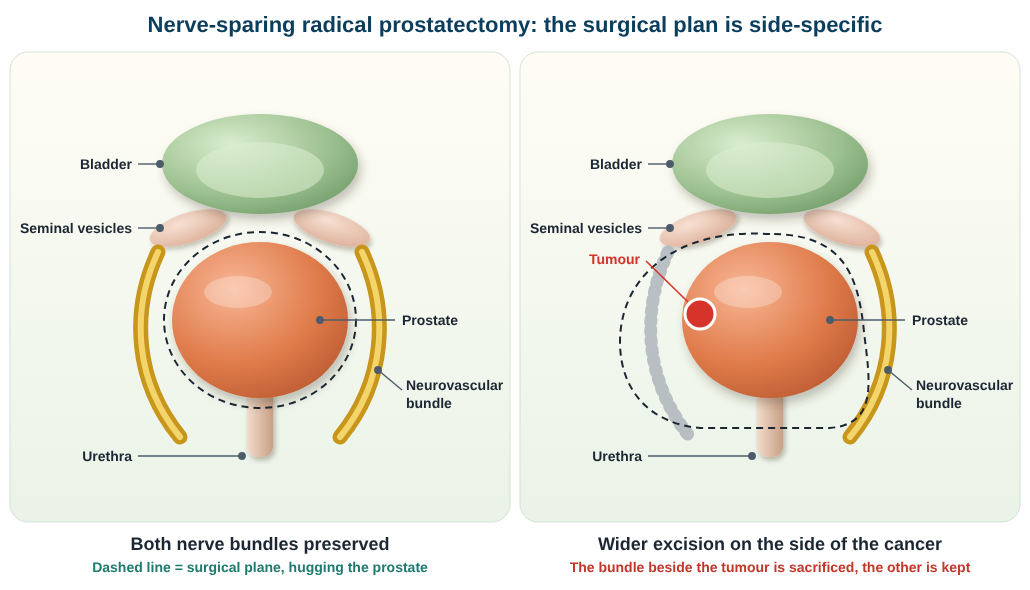
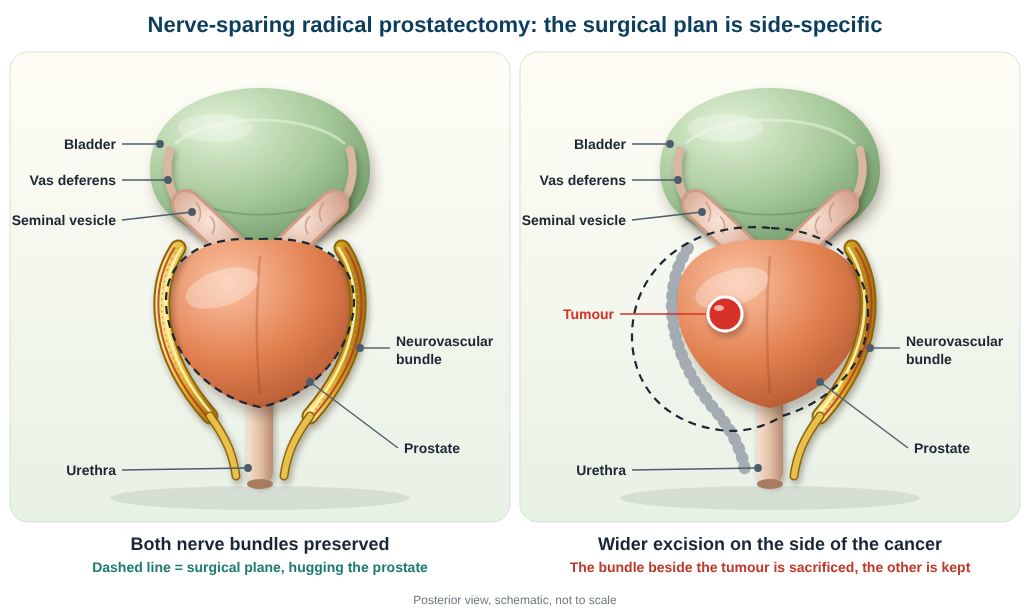
RARP post: 3D anatomy, console view image, training tiles, remove experience FAQ
Claude-Session: https://claude.ai/code/session_01Bn3ZAYEPAqXYkrJUSq1btt

diff --git a/blog-robotic-nerve-sparing-prostatectomy-kochi.html b/blog-robotic-nerve-sparing-prostatectomy-kochi.html
@@ -263,12 +263,17 @@
     <p>In a <b>nerve-sparing</b> operation, the surgeon separates the prostate from these bundles and leaves them in place. Preserving them is associated with better recovery of erections and urinary control. It is not appropriate for every man or every side of the prostate, and that is where careful planning matters.</p>
 
     <figure>
-      <img src="images/rarp-nerve-sparing-plan.svg" alt="Schematic of the prostate with both neurovascular bundles preserved, and with a wider excision on the side of the cancer" width="1030" height="590" loading="lazy" decoding="async">
+      <img src="images/rarp-nerve-sparing-plan.svg" alt="Schematic of the prostate with both neurovascular bundles preserved, and with a wider excision on the side of the cancer" width="1030" height="612" loading="lazy" decoding="async">
       <figcaption>Nerve-sparing is decided side by side, based on where the cancer lies (schematic, not to scale)</figcaption>
     </figure>
 
     <h2>Why a robotic approach?</h2>
     <p>Robotic surgery does not change the aim of the operation. It changes how precisely it can be done. From a console, the surgeon controls fine instruments through small keyhole incisions while viewing a magnified, three-dimensional image. That close view is especially valuable when separating delicate nerve tissue from the prostate and when rebuilding the join between the bladder and urethra.</p>
+
+    <figure>
+      <img src="images/rarp-console-view.svg" alt="Illustration of the surgeon seated at the robotic console, viewing a magnified 3D image of the prostate and nerve bundles" width="900" height="500" loading="lazy" decoding="async">
+      <figcaption>The surgeon operates from a console, looking at a magnified 3D view of the prostate and nerves (schematic)</figcaption>
+    </figure>
 
     <figure>
       <img src="images/rarp-why-robotic.svg" alt="Four advantages of robotic surgery: magnified 3D vision, wristed instruments, tremor filtering and small incisions" width="980" height="230" loading="lazy" decoding="async">
@@ -316,20 +321,20 @@
     <h2>Is surgery the only option?</h2>
     <p>No. Depending on risk, options include active surveillance for low-risk cancer, radiotherapy, and in selected men focal therapy that treats only the cancerous area. The right choice depends on your biopsy, MRI, PSA, age and priorities, and I explain every option that applies to you, including those that do not involve surgery.</p>
 
-    <h2>Training and credentials behind your surgeon</h2>
+    <h2>Training and experience behind your surgeon</h2>
     <p>Outcomes after nerve-sparing surgery depend heavily on the surgeon's training and experience, so it is reasonable to ask about both.</p>
-    <ul class="benefits">
-      <li><b>Vattikuti Fellowship in Robotic Surgery and Uro-Oncology</b>Medanta The Medicity, Gurugram (September 2025 to September 2026), under Dr. Gagan Gautam.</li>
-      <li><b>AdventHealth Orlando and UC San Diego, USA</b>Fellowship training under Dr. Vipul Patel and Dr. Bagrodia.</li>
-      <li><b>Johns Hopkins, USA</b>Focal therapy observership under Dr. Arvin K. George.</li>
-      <li><b>London, UK and Washington DC, USA</b>Hands-on transperineal biopsy training in London, with research presented at the EAU 2026 congress (London) and the AUA 2026 meeting (Washington DC).</li>
-      <li><b>Qualifications and registration</b>MBBS and MCh Urology (Government Medical College, Kozhikode), MS General Surgery (AIIMS Rishikesh). Kerala State Medical Council (KSMC) Reg. No. 60389.</li>
+    <ul class="tiles">
+      <li class="tile"><span class="thumb t-med">Medanta</span><b>Vattikuti Fellowship</b><p>Robotic surgery and uro-oncology, Gurugram, under Dr. Gagan Gautam.</p></li>
+      <li class="tile"><span class="thumb t-adv">AdventHealth</span><b>Fellowship, Orlando</b><p>Robotic uro-oncology training under Dr. Vipul Patel.</p></li>
+      <li class="tile"><span class="thumb t-ucsd">UC San Diego</span><b>Fellowship, USA</b><p>Uro-oncology training under Dr. Bagrodia.</p></li>
+      <li class="tile"><span class="thumb t-jh">Johns Hopkins</span><b>Observership, USA</b><p>Focal therapy under Dr. Arvin K. George.</p></li>
+      <li class="tile"><span class="thumb t-lon">London</span><b>Hands-on training</b><p>Transperineal biopsy; research at EAU and AUA 2026.</p></li>
+      <li class="tile"><span class="thumb t-aiims">AIIMS &middot; GMC</span><b>MS, MCh, MBBS</b><p>AIIMS Rishikesh and GMC Kozhikode. KSMC Reg. No. 60389.</p></li>
     </ul>
     <p>I currently practise at Aster Medcity, Kochi, as a uro-oncologist and robotic surgeon.</p>
 
     <h2>Questions to ask any surgeon</h2>
     <ul class="benefits">
-      <li><b>Experience</b>How many robotic prostatectomies have you performed, and what were your results?</li>
       <li><b>Nerve-sparing plan</b>Based on my MRI and biopsy, can the nerves be spared on one side, both sides, or neither?</li>
       <li><b>Expectations</b>What are my realistic chances of urinary control and erections at one year?</li>
     </ul>

diff --git a/blog.css b/blog.css
@@ -127,6 +127,15 @@
   .benefits b{ display:block; font-family:'Inter Tight',sans-serif; font-size:16px; font-weight:600; letter-spacing:-.02em; color:var(--text); margin-bottom:3px; }
 
   /* author box */
+  .tiles{ list-style:none; margin:26px 0; padding:0; display:grid; grid-template-columns:repeat(3,1fr); gap:14px; }
+  .tile{ padding:12px 12px 16px; border-radius:var(--r-md); background:linear-gradient(150deg,#ffffff,#eef4fc); border:1px solid var(--edge); box-shadow:0 14px 30px -26px rgba(17,38,80,.6); }
+  .tile .thumb{ display:flex; align-items:center; justify-content:center; height:84px; margin-bottom:12px; border-radius:14px; color:#fff; font-family:'Inter Tight',sans-serif; font-weight:700; font-size:17px; letter-spacing:-.01em; text-align:center; padding:0 8px; box-shadow:inset 0 -18px 30px -18px rgba(0,0,0,.35); }
+  .tile b{ display:block; font-family:'Inter Tight',sans-serif; font-size:15px; font-weight:600; letter-spacing:-.02em; color:var(--text); margin-bottom:3px; }
+  .tile p{ hyphens:none; -webkit-hyphens:none; margin:0; font-size:13.5px; line-height:1.45; color:var(--muted); text-align:left; }
+  .t-med{ background:linear-gradient(135deg,#d4262e,#8f1219); } .t-adv{ background:linear-gradient(135deg,#0a8a7a,#066357); }
+  .t-ucsd{ background:linear-gradient(135deg,#182b49,#0b1830); } .t-jh{ background:linear-gradient(135deg,#1f4f9a,#0f2c5c); }
+  .t-lon{ background:linear-gradient(135deg,#6a4cc2,#3d2a82); } .t-aiims{ background:linear-gradient(135deg,#e07b1a,#a24f08); }
+  @media (max-width:720px){ .tiles{ grid-template-columns:repeat(2,1fr); } .tile .thumb{ height:70px; font-size:15px; } }
   .author-box{
     margin:44px 0 0; padding:clamp(22px,3vw,32px); border-radius:var(--r-lg);
     background:linear-gradient(150deg,#ffffff,rgba(235,242,252,.9));
